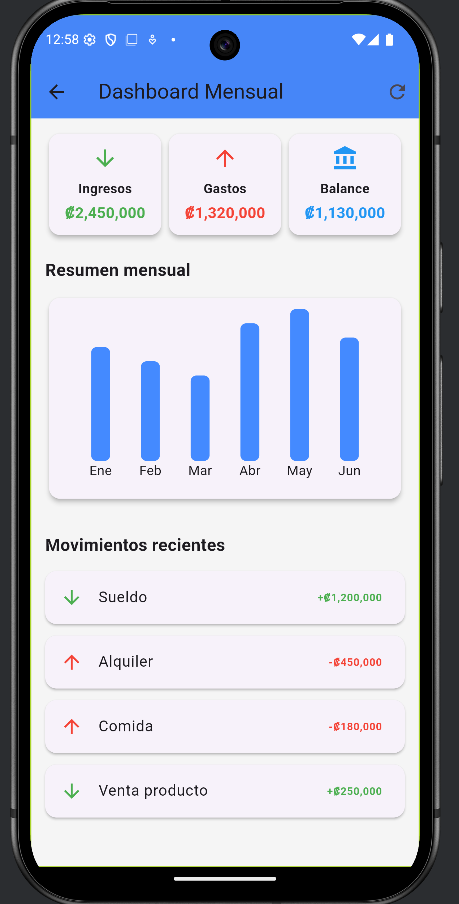
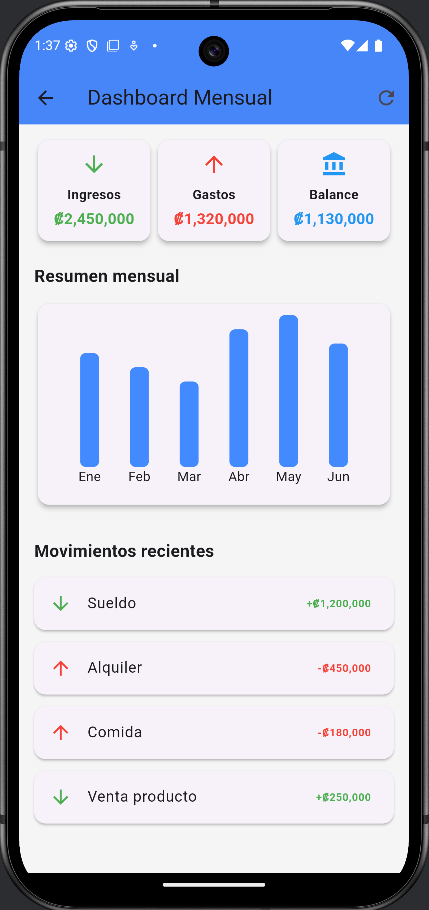
Cambio eN PROYECTO 1

diff --git a/proyecto1.html b/proyecto1.html
@@ -25,31 +25,28 @@
 
 
     <!-- Carrusel de imágenes con mockup -->
-    <div id="carouselFinanzas" class="carousel slide phone-carousel mb-5" data-bs-ride="carousel">
-      <div class="carousel-inner text-center">
-        <div class="carousel-item active">
-          <div class="phone-mockup mx-auto">
-            <img src="img/p1/dashboard_mensual.png" class="phone-screen" alt="Dashboard de Finanzas">
-          </div>
-        </div>
-        <div class="carousel-item">
-          <div class="phone-mockup mx-auto">
-            <img src="img/p1/gastos.png" class="phone-screen" alt="Registro de Gastos">
-          </div>
-        </div>
-        <div class="carousel-item">
-          <div class="phone-mockup mx-auto">
-            <img src="img/p1/ingresos.png" class="phone-screen" alt="Registro de Ingresos">
-          </div>
-        </div>
-      </div>
-      <button class="carousel-control-prev" type="button" data-bs-target="#carouselFinanzas" data-bs-slide="prev">
-        <span class="carousel-control-prev-icon"></span>
-      </button>
-      <button class="carousel-control-next" type="button" data-bs-target="#carouselFinanzas" data-bs-slide="next">
-        <span class="carousel-control-next-icon"></span>
-      </button>
+    <!--<h3 class="mt-5 mb-4 fw-semibold text-center">Vista de la Aplicación</h3-->
+
+<div id="carouselFinanzas" class="carousel slide carousel-fade mx-auto" data-bs-ride="carousel" style="max-width: 300px;">
+  <div class="carousel-inner rounded-4 shadow-lg">
+    <div class="carousel-item active">
+      <img src="img/p1/dashboard_mensual.png" class="d-block w-100 app-img" alt="Dashboard">
     </div>
+    <div class="carousel-item">
+      <img src="img/p1/gastos.png" class="d-block w-100 app-img" alt="Gastos">
+    </div>
+    <div class="carousel-item">
+      <img src="img/p1/ingresos.png" class="d-block w-100 app-img" alt="Ingresos">
+    </div>
+  </div>
+
+  <!-- Indicadores (puntos modernos) -->
+  <div class="carousel-indicators position-static mt-3">
+    <button type="button" data-bs-target="#carouselFinanzas" data-bs-slide-to="0" class="active rounded-circle"></button>
+    <button type="button" data-bs-target="#carouselFinanzas" data-bs-slide-to="1" class="rounded-circle"></button>
+    <button type="button" data-bs-target="#carouselFinanzas" data-bs-slide-to="2" class="rounded-circle"></button>
+  </div>
+</div>
 
     <!-- Descripción -->
     <div class="row">

diff --git a/style.css b/style.css
@@ -98,45 +98,39 @@ footer p {
 .btn-primary {
     background-color: #20318a;
     border-color: #364bb3;    
-    color: #ffffff;           
-}.phone-mockup {
-  width: 270px;
-  height: 550px;
-  background-color: #000;
-  border-radius: 35px;
-  padding: 12px;
-  position: relative;
-  box-shadow: 0 8px 20px rgba(0,0,0,0.25);
+    color: #ffffff;      
+}#carouselFinanzas {
   overflow: hidden;
 }
 
-.phone-screen {
-  width: 100%;
-  height: 100%;
-  object-fit: cover;
-  border-radius: 25px;
+#carouselFinanzas img.app-img {
+  max-height: 520px;
+  object-fit: contain;
+  border-radius: 1rem;
 }
 
-/* Cámara simulada del teléfono */
-.phone-mockup::before {
-  content: "";
-  position: absolute;
-  top: 8px;
-  left: 50%;
-  transform: translateX(-50%);
-  width: 60px;
-  height: 6px;
-  background-color: #333;
-  border-radius: 3px;
+
+.carousel-indicators [data-bs-target] {
+  width: 10px;
+  height: 10px;
+  border-radius: 50%;
+  background-color: #ccc;
+  border: none;
+  transition: all 0.3s ease;
+  margin: 0 5px;
 }
 
-/* Ajustes específicos del carrusel */
-.phone-carousel {
-  max-width: 270px;
-  margin: 0 auto;
+.carousel-indicators .active {
+  background-color: #20318a; 
+  transform: scale(1.3);
 }
 
-.carousel-control-prev-icon,
-.carousel-control-next-icon {
-  filter: invert(1); /* Íconos blancos sobre fondo oscuro */
+.carousel-fade .carousel-item {
+  transition: opacity 0.8s ease-in-out;
+}
+
+
+#carouselFinanzas img.app-img:hover {
+  transform: scale(1.03);
+  transition: transform 0.5s ease;
 }
